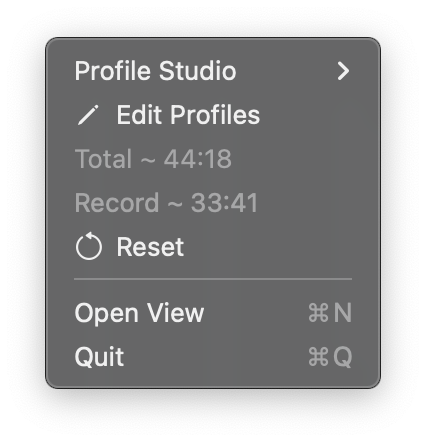
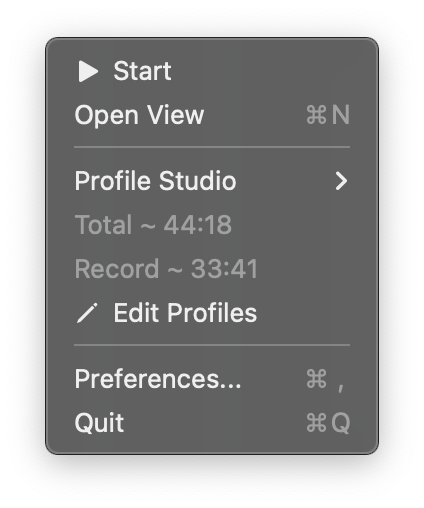
minor improvements

diff --git a/flowtime/MenuBar.swift b/flowtime/MenuBar.swift
@@ -13,24 +13,13 @@ struct MenuBar: Scene {
 	@StateObject private var relaxModel: RelaxModel = RelaxModel(ClockModel.shared.relaxingTime)
 	
 	@AppStorage("settings.showTimer") private var showTimer = true
-	@AppStorage("actual") var actualId = 0
-	@AppStorage("profilesString") var profiles = [Profile]()
 	
-	private var others: [Profile] {
-		StorageManager.profile.filter { $0 != StorageManager.actualProfile }
-	}
+	@State var alert = 25
 	
-	private var actual: Profile {
-		if profiles.count == 0 {
-			profiles.append(Profile(title: "Default"))
-		}
-		
-		if profiles.count <= actualId {
-			actualId = 0
-		}
-		
-		return profiles[actualId]
-	}
+	private var profiles: [Profile] { clockModel.profiles }
+	private var actual: Profile { clockModel.actualProfile }
+	private var others: [Profile] { profiles.filter { $0 != actual } }
+	
 	
 	var body: some Scene {
 		MenuBarExtra(
@@ -48,10 +37,17 @@ struct MenuBar: Scene {
 						}
 					}
 					
-					Button(action: clockModel.reset) {
-						Image(systemName: "trash.fill")
-						Text("Cancel")
+					if(!clockModel.isPaused){
+						Button(action: clockModel.reset) {
+							Image(systemName: "trash.fill")
+							Text("Cancel")
+						}
 					}
+					
+					Button("Open View"){
+						NSApplication.shared.activate(ignoringOtherApps: true)
+						openWindow(id: "MainScreen")
+					}.keyboardShortcut("n")
 					
 					Divider()
 				}
@@ -68,27 +64,14 @@ struct MenuBar: Scene {
 					}
 				}
 				
-				Button(action: {
-					NSApplication.shared.activate(ignoringOtherApps: true)
-					openWindow(id: "EditProfile")
-				}, label: {
+				Text("Total ~ \(clockModel.actualTotal.minuteSecond)")
+					
+				Text("Record ~ \(clockModel.actualRecord.minuteSecond)")
+				
+				Button(action: openEditProfile, label: {
 					Image(systemName: "pencil")
 					Text("Edit Profiles")
 				})
-				
-				Text("Total ~ \(clockModel.actualTotal.minuteSecond)")
-					.foregroundColor(.black)
-				Text("Record ~ \(clockModel.actualRecord.minuteSecond)")
-				
-				Button(action: {StorageManager.actualProfile.reset()}) {
-					Image(systemName: "gobackward")
-					Text("Reset")
-				}
-				
-				Button("Open View"){
-					NSApplication.shared.activate(ignoringOtherApps: true)
-					openWindow(id: "MainScreen")
-				}.keyboardShortcut("n")
 				
 				Divider()
 				
@@ -119,6 +102,11 @@ struct MenuBar: Scene {
 				}
 			}
 		)
+	}
+	
+	func openEditProfile() {
+		NSApplication.shared.activate(ignoringOtherApps: true)
+		openWindow(id: "EditProfile")
 	}
 }
 

diff --git a/flowtime/Model/ClockModel.swift b/flowtime/Model/ClockModel.swift
@@ -6,7 +6,7 @@
 //
 
 import Foundation
-
+import SwiftUI
 
 class ClockModel: ObservableObject {
 	static let shared: ClockModel = ClockModel() // TODO implement as macro
@@ -15,17 +15,32 @@ class ClockModel: ObservableObject {
 	@Published private var rawSeconds: Int
 	@Published var relaxingTime: TimeInterval = 0
 	
+	@AppStorage("actual") var actualId = 0
+	@AppStorage("profilesString") var profiles = [Profile]()
+	
 	var isPaused: Bool { !timer.isValid }
 
 	var duration: TimeInterval { TimeInterval(rawSeconds) }
 	var relaxDuration: TimeInterval { TimeInterval(rawSeconds / 5) }
 	
+	var actualProfile: Profile {
+		if profiles.count == 0 {
+			profiles.append(Profile(title: "Default"))
+		}
+		
+		if profiles.count <= actualId {
+			actualId = 0
+		}
+		
+		return profiles[actualId]
+	}
+	
 	var actualTotal: TimeInterval {
-		StorageManager.actualProfile.total.advanced(by: duration)
+		actualProfile.total.advanced(by: duration)
 	}
 	
 	var actualRecord: TimeInterval {
-		max(duration, StorageManager.actualProfile.record)
+		max(duration, actualProfile.record)
 	}
 	
 	private init(_ seconds: Int = 0) {

diff --git a/flowtime/Views/EditProfiles.swift b/flowtime/Views/EditProfiles.swift
@@ -90,6 +90,11 @@ struct EditProfile: View {
 			
 			Text(p.total.minuteSecond)
 			
+			Button(action: {profiles[index].reset()}) {
+				Image(systemName: "gobackward")
+				Text("Reset")
+			}
+			
 			if(profiles.count > 1){
 				Button(
 					action: { profiles.removeFirst(p) },
